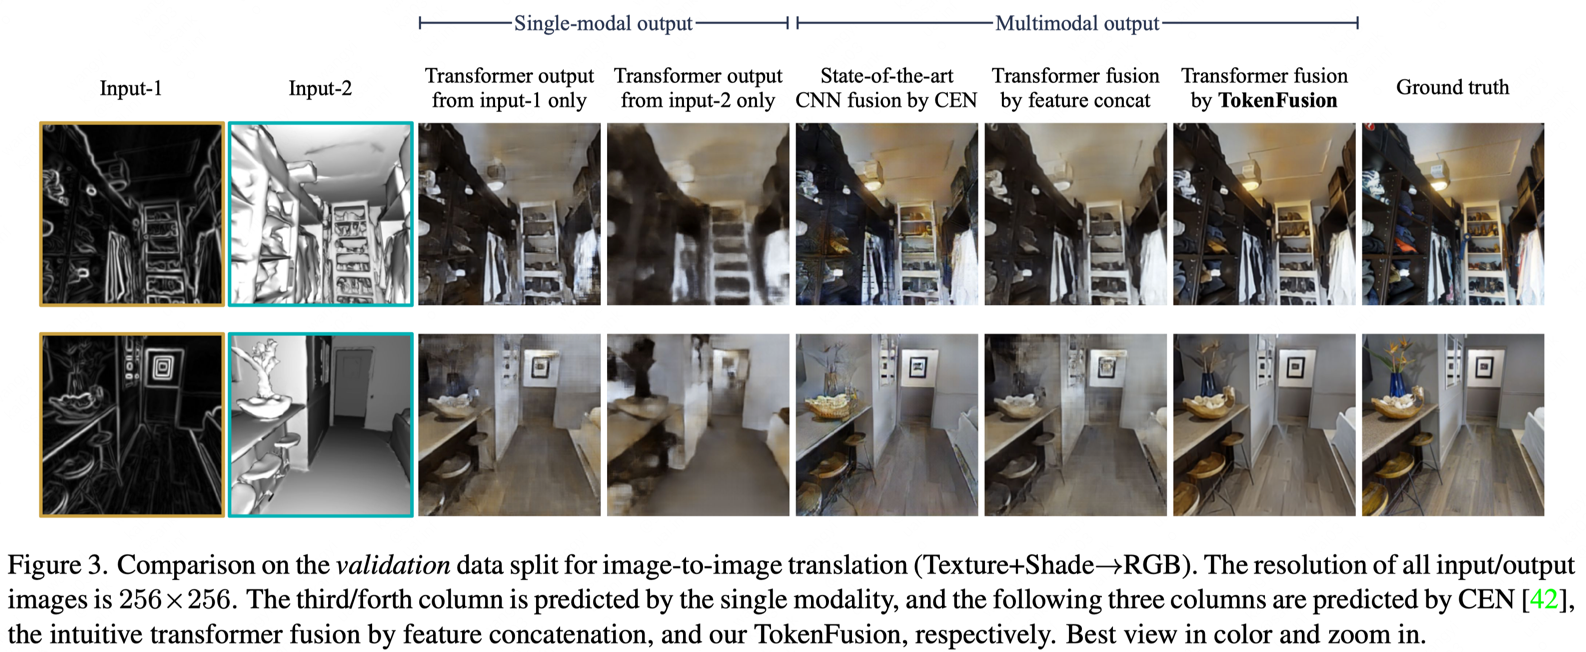
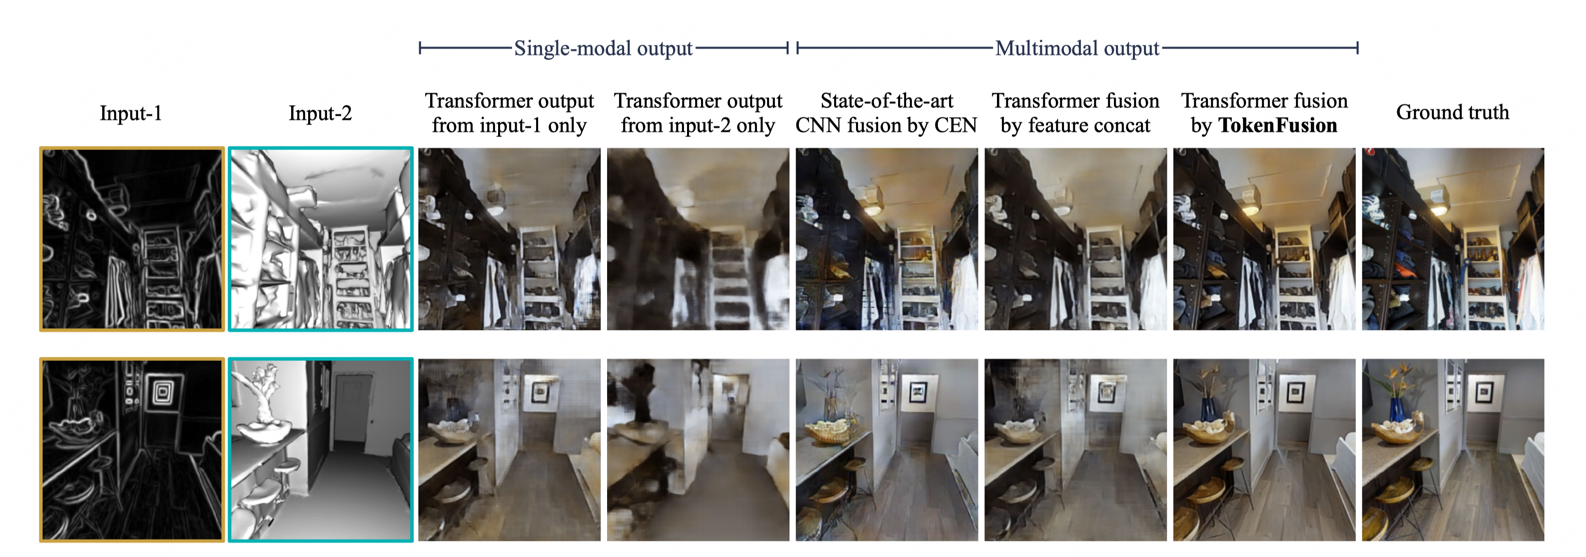
update README

diff --git a/README.md b/README.md
@@ -11,7 +11,7 @@ This repository is a PyTorch implementation of "Multimodal Token Fusion for Visi
 </div>
 
 <div align="center">
-   <img src="./figs/img2img.png" width="720">
+   <img src="./figs/img2img.png" width="960">
 </div>
 
 
